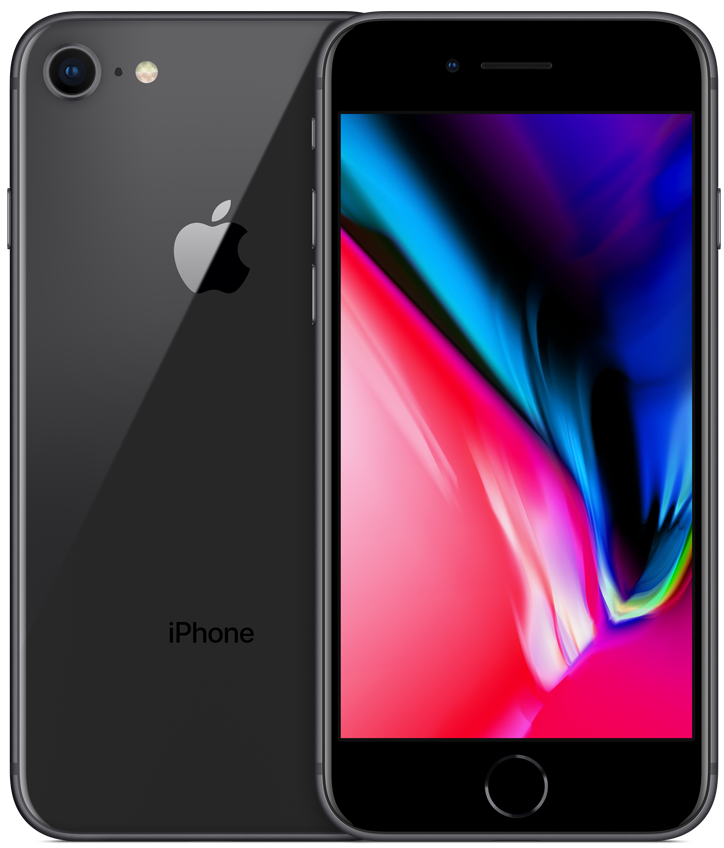
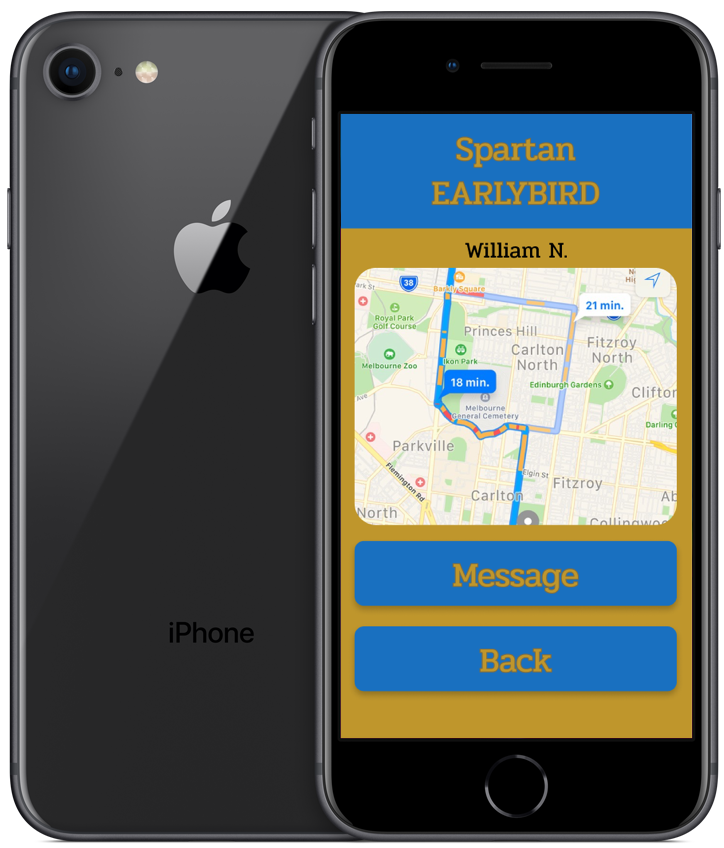
integration section

diff --git a/index.html b/index.html
@@ -6,7 +6,7 @@
     <meta charset="utf-8">
     <meta name="viewport" content="width=device-width, initial-scale=1, shrink-to-fit=no">
 
-    <!-- Bootstrap CDN -->
+    <!-- Bootstrap v4.3 CDN -->
     <link rel="stylesheet" href="https://stackpath.bootstrapcdn.com/bootstrap/4.3.1/css/bootstrap.min.css" integrity="sha384-ggOyR0iXCbMQv3Xipma34MD+dH/1fQ784/j6cY/iJTQUOhcWr7x9JvoRxT2MZw1T"
         crossorigin="anonymous">
     <!-- g00gle fonts -->
@@ -57,21 +57,23 @@
         <h1 class="display-4 page-title">methodology</h1>
         <!-- "the problem" -->
         <div id="problemSection">
-            <h3 class="page-subtitle"><i>The Problem:</i></h3>
+            <h3 class="page-subtitle"><i><i class="fas fa-exclamation-circle"></i> The Problem:</i></h3>
             <div class="row justify-content-center">
                 <div class="col-md-6">
                     <p>
-                        Salami sirloin landjaeger jowl t-bone picanha, drumstick cow kielbasa. Cupim cow doner short
-                        loin
-                        pork loin turducken t-bone kevin frankfurter. Strip steak pork loin drumstick t-bone. Sausage
-                        drumstick jowl chicken swine, frankfurter short loin beef ribs alcatra. Sirloin fatback salami,
-                        pork loin andouille brisket tenderloin.
+                        San Jose State University is currently in a <strong>perpetual parking crisis</strong>, that of
+                        which brings
+                        various problems to the table. Parking supply is unable to suffice for the immense commuter
+                        volume at SJSU, causing traffic congestion, and making commuters' mornings extremely tedious.
+                        Being that San Jose is an urban, workfoce driven city, traffic congestion often occurs in the
+                        morning; emissions from idling cars poses another issue caused by SJSU's parking crisis.
                     </p>
                     <p>
-                        Fatback pork belly pig, drumstick shoulder picanha beef ribs. Kielbasa beef tri-tip meatloaf
-                        turkey
-                        meatball leberkas ham hock. Frankfurter bresaola venison pancetta buffalo shank. Pork loin jowl
-                        landjaeger kielbasa pig filet mignon rump spare ribs sirloin strip steak burgdoggen prosciutto.
+                        SJSU currently has approximately 5000 parking spaces for commuters— 1445, 1135, 1445, and 1100
+                        for South Garage, West Garage, North Garage, and Park & Ride, respectively. With approximately
+                        35,000 students and 33% being commuters, demand
+                        currently outpaces supply for parking spaces, causing a surge of commuters to make their
+                        commutes to campus early in order to secure a parking space.
                     </p>
                 </div>
                 <div class="col-md-4">
@@ -105,7 +107,7 @@
         </div>
         <!-- "the solution" -->
         <div id="solutionsSection">
-            <h3 class="page-subtitle"><i>The Solution:</i></h3>
+            <h3 class="page-subtitle"><i><i class="fas fa-lightbulb"></i> The Solution:</i></h3>
             <div class="row justify-content-center">
                 <div class="col-md-4 pb-5 pb-md-2">
                     <div class="row align-items-start">
@@ -116,32 +118,57 @@
                 </div>
                 <div class="col-md-6">
                     <p>
-                        <strong>Spartan Earlybird</strong> short loin strip steak frankfurter tongue. Short ribs
-                        turducken pastrami, doner
-                        burgdoggen
-                        meatball tongue pork cow pork chop sausage prosciutto andouille pig. Ham pork chop alcatra,
-                        kielbasa
-                        cow pig jerky chicken corned beef ball tip tail ham hock doner short loin strip steak. Brisket
-                        fatback
-                        tongue, kielbasa bacon chicken filet mignon buffalo pork belly. Ball tip sausage burgdoggen
-                        pastrami
-                        t-bone flank fatback pork chop frankfurter picanha. Flank filet mignon meatball, rump t-bone
-                        brisket
-                        ribeye porchetta. Boudin flank pancetta kevin hamburger sirloin.
+                        <strong>Spartan Earlybird</strong> is a modern solution to an ancient issue— a mobile
+                        parking-application that creates a network of data displayed from phyical parking sensor
+                        meters, eliminating the ambiguity of parking space availibility for SJSU commuting students.
+                        This application was created to reduce commute times, traffic congestion, and carbon emissions
+                        for all students who commute to SJSU.
                     </p>
                     <p>
-                        Venison shoulder burgdoggen pastrami. Fatback pork chop ham shoulder ground round swine
-                        tenderloin
-                        cupim boudin pork belly bresaola venison. Pancetta salami pork chop, ribeye fatback pastrami
-                        rump.
-                        Buffalo leberkas turkey, frankfurter flank pastrami kevin sausage jerky. Landjaeger pastrami
-                        pork
-                        chop drumstick salami, kielbasa hamburger. Rump drumstick chicken pig pork belly doner
-                        burgdoggen
-                        salami ball tip porchetta pancetta capicola short loin corned beef ham.
+                        The premise of this application is to incentivize a new ride-share program at SJSU in which
+                        students are enabled to carpool. It is comprised of two "user types"— <i>drivers</i> and <i>passengers</i>.
+                        During days of instruction, on every night at 9PM prior to the day of carpool, Spartan
+                        Earlybird will use pairing algorithms to match <i>passengers</i> with <i>drivers</i> that need
+                        to go to school at the same time until each <i>driver's</i> car is full. The application will
+                        utilize the data from the parking sensor meters to display various parking information in all
+                        SJSU parking locations such as which specific spots are open, and an estimate as to when the
+                        occupied spot will be open based on student schedules.
                     </p>
                 </div>
             </div>
+        </div>
+
+        <!-- integration section -->
+        <div id="integrateSection">
+            <h4 class="page-subtitle text-center"><i>Integration:</i></h4>
+            <div class="row justify-content-center align-items-md-center">
+                <div class="col-md-6">
+                    <img src="./img/floatingiPhone.png" alt="" class="img-fluid border-top-0">
+                </div>
+                <div class="col-1">
+                    <i class="fas fa-plus"></i>
+                </div>
+                <div class="col-md-5">
+                    <img src="./img/raspberry.png" alt="" class="img-fluid border-top-0">
+                </div>
+            </div>
+            <p>Integration of <strong>Spartan Earlybird</strong> dives into the realms of the
+                Web of Things (WoT) in order to create a smart-parking-system. On the hardware side, this project
+                requires items such as a
+                <i>
+                    Raspberry Pi, breadboard, LTE stick with microSD card, and an ultrasonic sensor
+                </i>
+                to pair with the web side of things.
+            </p>
+            <p>
+                The integration of service-oriented architecture and web enablement into SJSU's parking structures
+                follows a rather simple methodology: the first step is installing the ultrasonic sensor (which tells us
+                if the parking spot is occupied) to the breadboard, and the breadboard to the Raspberry Pi. After that,
+                the second step is installing the LTE stick to the Raspberry Pi, giving it internet access. Lastly,
+                programming is required so that the Pi can act as the <i>brain</i> of the system. This system will be
+                paired with the <strong>Spartan Earlybird</strong> application to display the status of various parking
+                spots and enable the ability to reserve such spots.
+            </p>
         </div>
     </section>
 

diff --git a/index.scss b/index.scss
@@ -1,3 +1,6 @@
+//variables
+$spartan-yellow: #fcba03;
+
 html {
     scroll-behavior: smooth;
 }
@@ -22,7 +25,7 @@ html {
 }
 
 #landingPage {
-    background: #fcba03;
+    background: $spartan-yellow;
     height: 90vh;
     font-family: 'Raleway', sans-serif;
     width: 100%;
@@ -53,9 +56,16 @@ html {
         text-align: start;
     }
 
+    .fa-exclamation-circle {
+        color: red;
+    }
+    .fa-lightbulb {
+        color: $spartan-yellow;
+    }
     
     #issuesSection {
         text-align: center;
+        background-color: $spartan-yellow;
         #issue-block {
             display: inline-block;
             width: 130px;
@@ -78,7 +88,7 @@ html {
         }
         #issue-block:hover i {
             transform: scale(1.3);
-            color: #fcba03;
+            color: $spartan-yellow;
         }
         #issue-block::before{
             content: "";
@@ -108,6 +118,10 @@ html {
             }
         }
     }
+}
+
+#integrateSection {
+    
 }
 
 #functionPage {

diff --git a/index.css b/index.css
@@ -59,6 +59,14 @@ html {
   text-align: start;
 }
 
+#methodPage .fa-exclamation-circle {
+  color: red;
+}
+
+#methodPage .fa-lightbulb {
+  color: #fcba03;
+}
+
 #methodPage #issuesSection {
   text-align: center;
 }
